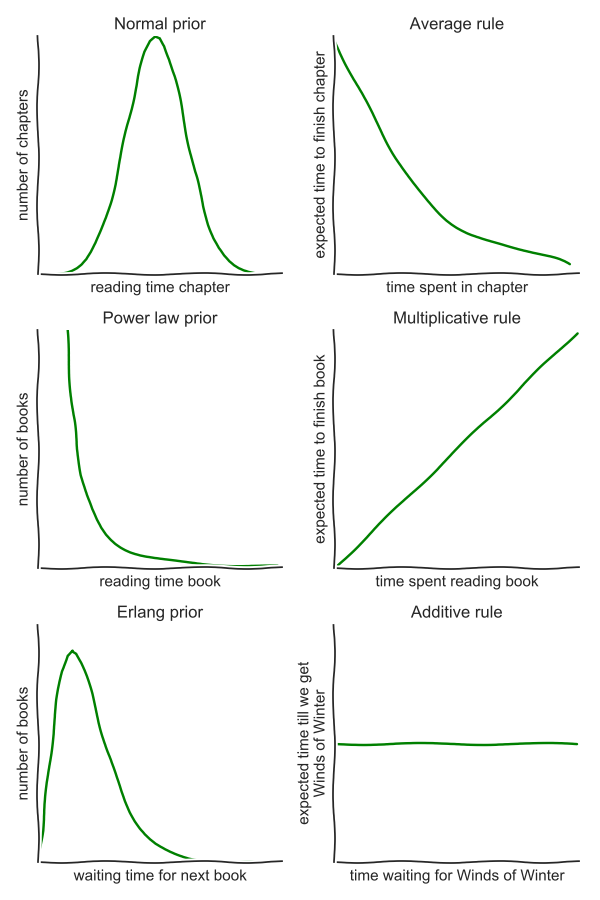
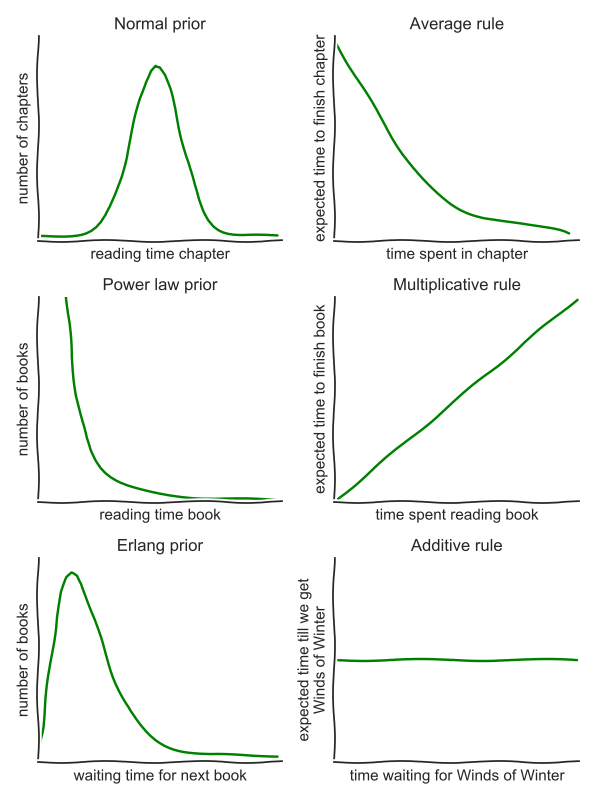
Algorithms post, moved Bayes to graveyard

diff --git a/scripts/2017_algorithms/bayes.py b/scripts/2017_algorithms/bayes.py
@@ -31,11 +31,12 @@ xvals = np.linspace(1e-1, 10)
 # parameters
 mu = 5
 a = 2.3
+sigma = 2
 
 # prior density
-f_norm = np.exp(-(xvals - 5)**2 / 3)
+f_norm = np.exp(-(xvals - 5)**2 / sigma)
 f_power = xvals**(-a)
-f_erlang = np.exp(-1.5 * xvals) * xvals**a
+f_erlang = np.exp(-1.5 * xvals) * xvals**a + 1e-2
 
 # posterior exp, E[X|X>y]
 
@@ -49,9 +50,9 @@ if __name__ == '__main__':
     fig, axes = plt.subplots(nrows=3, ncols=2, figsize=(6, 8))
 
     # priors
-    make_plot(axes[0,0], f_norm, 'reading time chapter', 'number of chapters',
+    make_plot(axes[0,0], f_norm+3e-2, 'reading time chapter', 'number of chapters',
                                                         'Normal prior')
-    make_plot(axes[1,0], np.linspace(1e-3, 3)**(-a), 'reading time book',
+    make_plot(axes[1,0], np.linspace(1e-3, 3)**(-a) + 1e-3, 'reading time book',
                                         'number of books', 'Power law prior')
     axes[1,0].set_ylim([0, 10])
     make_plot(axes[2,0], f_erlang, 'waiting time for next book',

diff --git a/_posts/algorithms.md b/_posts/algorithms.md
@@ -4,33 +4,27 @@ title: Sorting socks and other practical uses of algorithms
 ---
 
 
-
 ## Optimal stopping
 
-Suppose that you are in an ice cream salon with a hundred different flavors of ice cream: chocolate-mint, peanut butter, pepper, coffee-chocolate-garlic and many more! Because you don't know any of these strange combinations, the friendly ice cream vendor allows you some tastes. You can try a little spoon of a type of ice cream and then have to decide whether you want the full portion of that type or want to taste something else. Politeness says that if you have have declined a flavor to try a new one, you can never choose that flavor again. Which strategy will lead to the best bowl of ice cream?
+Suppose that you are in an ice cream salon with a hundred different flavors of ice cream: chocolate-mint, peanut butter, pepper, coffee-chocolate-garlic and many more! Because you do not know any of these strange combinations, the friendly ice cream vendor allows you to taste some! You can try a little spoon of a flavor of ice cream and then have to decide whether you want a full portion of that kind or want to taste something else. Politeness says that if you have have declined a flavor to try a new one, you can never choose that previous flavor again. Which strategy will lead to the best bowl of ice cream?
 
-This problem is well-known in mathematical circles as the **secretary problem**. You have a set of candidates for the position of your new secretary which you interview in random order. After every interview you have to decide to his this candidate or reject and hire a new one. Clearly, if you decide to hire too soon, you are likely to end up with a suboptimal secretary whereas if you keep rejecting in the hope of finding someone better, it is likely that you rejected the best one. There is a rather elegant solution to this problem:
+This problem is well-known in mathematical circles as the **secretary problem**: you have a set of candidates to fill a vacant secretary position. These candidates visit your office one-by-one to get interviewed. After every interview you have to decide to hire this candidate or reject and interview a new one. Clearly, if you decide to hire too soon you likely end up with a mediocre candidate. On the other hand, if you keep rejecting applicants in the hope of finding someone better, it is likely that you rejected the best one. There is a rather elegant solution to this problem:
 
-> When searching for the best item, first spend $e^{-1}\approx 37$% of your effort just looking and from then on pick a good one.
+> When searching for the best 'item', first spend $e^{-1}\approx 37$% of your effort just looking and from then on pick a good one.
 
 So, returning to the ice cream dilemma, if I can reasonably try ten flavors, my best strategy is to taste and reject the first four flavors to get a feel of the 'distribution' and from then onwards choose something that I like. Many daily problems can be tackled this way: hiring candidates, looking for a job, finding a new apartment to selecting your life partner. Typical for all these problems is that the distribution is unknown beforehand: before starting our search we have no point of reference for what is good or not. If instead of hiring people based on their qualitative competence, we base ourself on their study results it all becomes much easier. Just look until you find a candidate with the highest score you can reasonably expect: when interviewing ten candidates you can reasonably expect one to be in the top-ten percentile grade-wise.
 
 ## Exploring / exploiting
 
-Where should we go and eat tonight? Are we going to our favorite Italian which we always enjoy or are we taking a gamble and try that new Lebanese place, which might be a hit or miss. This is called the **exploration vs exploitation**: should you exploit your best strategy you have found up to know or engage in the risky endeavor of exploring? As a researcher, it is a problem I face regularly: continue working on my current research lines (resulting in a quite steady output of papers though not necessary the most exciting topic) or try this new thing all the cool kids are doing (which could be high-impact, but will probably just be a dead end).
+Where should we go and eat tonight? Are we going to our favorite Italian which we always enjoy or are we taking a gamble and try that new Lebanese place, which might be a hit or miss. This is called the **exploration vs exploitation dilemma**. Is it better to exploit your best strategy or to engage in the risky endeavor of exploring? As a researcher, it is a problem you face regularly: continue working on a current research line (resulting in a quite steady output of papers though not necessary the most exciting topic) or try this new thing you just read about (which could be high-impact, but will probably just be a dead end)?
 
-- *Gittins index*
+A formal solution to this problem has been developed by [Gitten](https://en.wikipedia.org/wiki/Gittins_index). The main idea is based on a **discount factor**: the notion that a reward now or in the near future is worth more than the same reward in a farther future. Using some rather complex formulas and a discount factor to weigh the important the Gittens index provides a value which allow you to determine if you should try something new or stick to the same thing.
 
 Perhaps a more simple way guiding your choices is through a **regret bound**: which ones of these things will I regret most of not having done?
 
-- voorbeeld
-- *Gittins index*
-- regret and confidence bounds
-- A/B testing
-
 ## Sorting
 
-Despite having a master degree in engineering, I have to admit that I do not really know how to operate our washing machine. Hence, I am usually the one who has to fold the laundry which my partner has washed. I can treat this mostly as an exercise in mindfulness, except for the socks. We seem to have an endless variety of different kinds of socks (my mother has a shop selling underwear) and most of my time in the laundry room is finding the matching pairs of socks. Sadly, I use a rather inefficient form of ... sort: I pick a (initially brightly colored) sock and subsequently comb trough the pile to find its partner. This leaves me with a depressing time complexity of $\mathcal{O}(n^2)$, time proportional to the the number of socks squared.
+Despite having a master degree in engineering, I have to admit that I do not really know how to operate our washing machine. Hence, I am usually the one who has to fold the laundry which my partner has washed. I can treat this mostly as an exercise in mindfulness, except for the socks. We seem to have an endless variety of different kinds of socks (my mother has a shop selling underwear) and most of my time in the laundry room is finding the matching pairs of socks. Sadly, I use a rather inefficient form of insertion sort: I pick a (initially brightly colored) sock and subsequently comb trough the pile to find its partner. This leaves me with a depressing time complexity of $\mathcal{O}(n^2)$, time proportional to the the number of socks squared.
 
 When going through your laundry, organizing your contacts, alphabetizing your books or sorting a pack of cards, an efficient method of sorting requires more effort than going though the whole collection once. More precisely, it requires about $\mathcal{O}(n\log n)$ comparisons. This is better than how I organize my socks, but still requires several passes through the collection. Why do we sort if it is that much work? Because it is much easier to find items from a sorted collection compared to an unorganized collection. And this is the *searching-sorting trade-off*. Sorting is a lot of work in advance, but you save time searching for things on the long run.
 
@@ -38,16 +32,11 @@ As an easy alternative for keeping your stuff perfectly sorted you can use *bin 
 
 > Ordering and keeping things ordered is often an unnecessary hassle. Instead, simply divide your collection in a manageable number of 'bins'.
 
-This is the approach that is used in ..., the most efficient library in the world. Sorting stuff into $k$ bins has a time complexity of only $\mathcal{O}(kn)$. Furthermore, if you want to sort the bins themselves, it is quite easy as there are relatively few objects per bin. I actually use this system myself for my books, rather than sorted by author, my books are grouped by color. In addition to being esthetically pleasing, I can find my books much easier based on the color of their cover than the author's name.
+Sorting stuff into $k$ bins has a time complexity of only $\mathcal{O}(kn)$. Furthermore, if you want to sort the bins themselves, it is quite easy as there are relatively few objects per bin. I actually use this system myself for my books, rather than sorted by author, my books are grouped by color. In addition to being esthetically pleasing, I can find my books much easier based on the color of their cover than the author's name.
 
-And yes, from now on I subdive my socks in brownish, dark and colored.
+And yes, from now on I subdivide my socks in brownish, dark and colored.
 
-Foto sokken
-
-#REVIEW
-- naam sorteer algorithm
-- naam efficient bibliotheek
-- Foto van mijn sokken
+![](../images/2017_algorithms/socks.jpg)
 
 ## Caching
 
@@ -70,15 +59,6 @@ If you just have some things to do, without order (some chores at home), you wil
 > Do tasks in order of importance divided by the time it takes to finish the task.
 
 So, if one task takes twice as much time as another, only do it first if it is more than two times as important.
-
-## Bayes' rule
-
-![](../images/2017_algorithms/bayes.png)
-
-- predicting using one data point
-- *power-law distributions* => multiplicative rule
-- *normal distributions* => average rule
-- *Erlang distribution* => additive rule
 
 ## Computational kindness
 

diff --git a/future_posts_graveyard/2017/Bayes.md b/future_posts_graveyard/2017/Bayes.md
@@ -1,0 +1,19 @@
+## Bayes' rule
+
+Can we predict the feature given only a single observation? For instance, given that the price of a Bitcoin has doubled in the last two months, what will the price be in another two months?
+
+Well, the only way to make a prediction is by making some assumptions. I know very little of economics, but since the value of a Bitcoin has dramatically rising for quite some while now, it seems reasonable to me that it will keep increasing. Furthermore, from my perspective, I have no reason to assume that the price will increase faster or that the Bitcoin craze will mellow out. So assuming that the trends will keep up and the price went in October from about USD 4,000 to USD 10,000 in December, it seems like a good bet that a Bitcoin will be worth around USD 1,5000 in February. You can spot the fallacy here: of course at some point the prices will stagnate (or pop like a bubble)! But *to me*, it looks unlikely that the trend will change right now. This idea is similar to [the Doomsday argument](https://en.wikipedia.org/wiki/Doomsday_argument).
+
+Another prediction: my nephew is born last August. Is it likely that, in addition to the four months that he has been around on this planet, he still has four months to go? Let us hope not! My grandmother on the other hand is close to ninety years old, healthy as she is, I fear she won't make it to 180. Apparently, we have different expectations for the distributions of peoples age than for the value of cryptocurrencies.
+
+Based on our expectations on different phenomena around us, and a sound reasoning based on [Bayes' rule](https://www.countbayesie.com/blog/2015/2/18/bayes-theorem-with-lego). Some things, such as stock values, follow a **power law**: there is a huge difference in the scale of individual observations. Most stocks have a relatively low value while some have
+
+
+![
+Example of using Bayes rule to make predictions using a single observation. (top) Events that are normally distributed (such as the time required to read a chapter of a book) can be predicted using the average rule: (middle) Events that follow a power law (such as the time )
+](../images/2017_algorithms/bayes.png)
+
+- predicting using one data point
+- *power-law distributions* => multiplicative rule
+- *normal distributions* => average rule
+- *Erlang distribution* => additive rule
